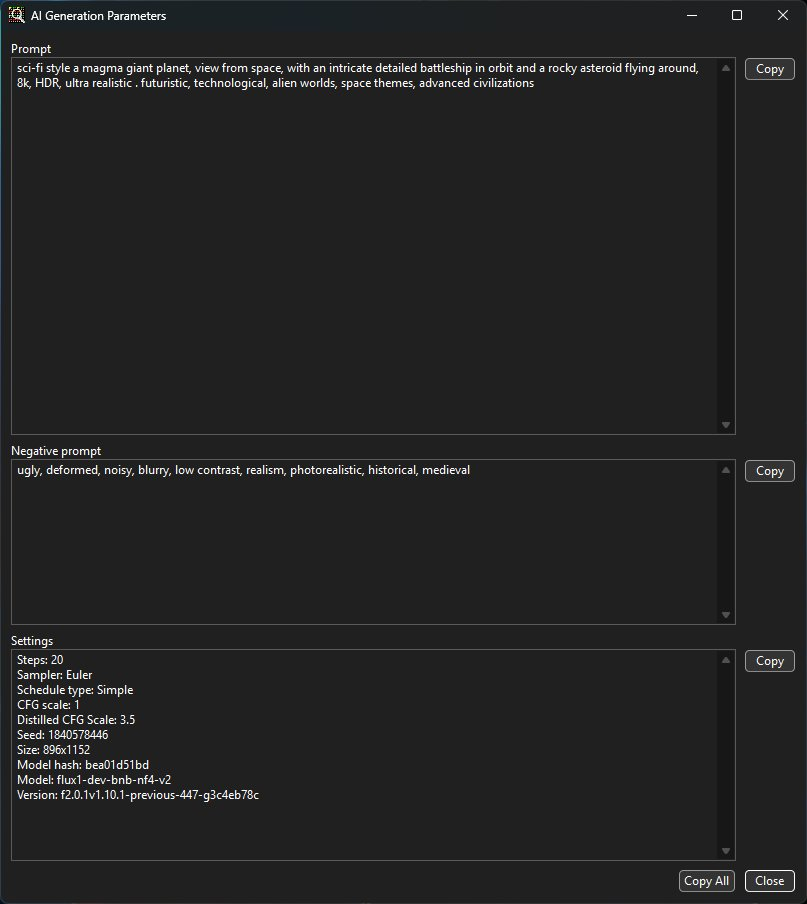
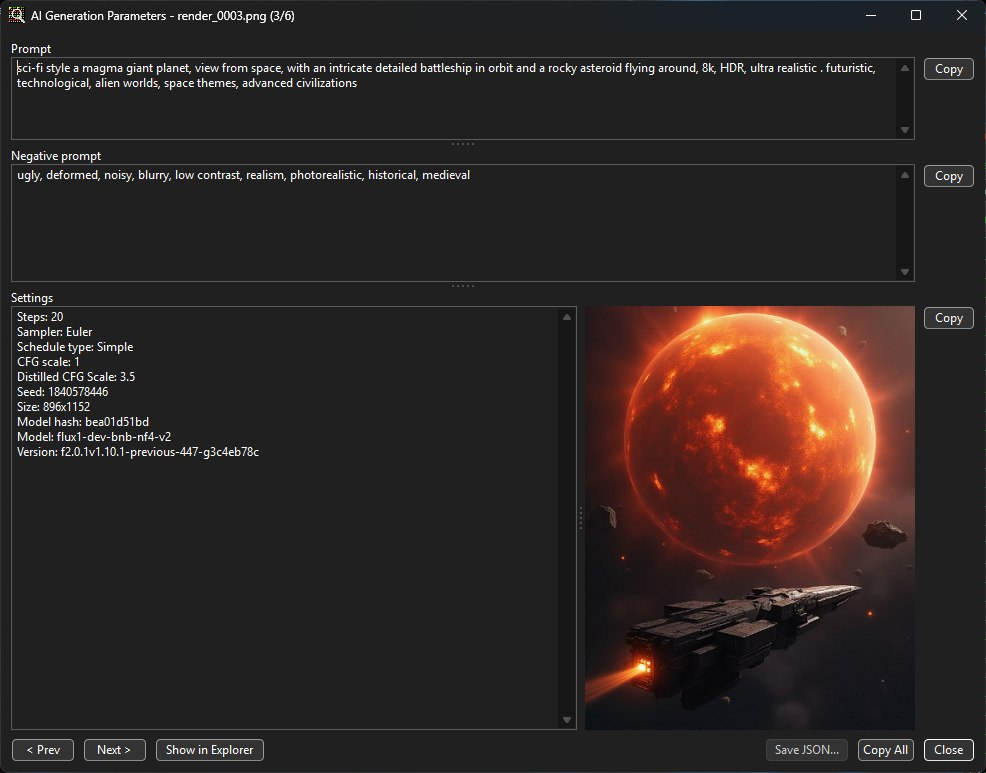
docs: New screenshots and an updated readme
Screenshots of the main window, the AI viewer, the folder overview, the
full-screen view, the text chunk editor and the image viewer, made with the
images in samples/ in a demo folder. The readme describes video playback,
the folder overview's sorting and live updates, and is plain ASCII now.

⚡

diff --git a/readme.md b/readme.md
@@ -8,53 +8,55 @@ This is a fork of [jsummers/tweakpng](https://github.com/jsummers/tweakpng)
 ([project homepage](https://entropymine.com/jason/tweakpng/)) by Jason Summers, with two
 goals:
 
-**Modern Windows 10/11 UI** — a dark-mode title bar, menu bar, chunk list, dialogs,
+**Modern Windows 10/11 UI** - a dark-mode title bar, menu bar, chunk list, dialogs,
 message boxes, and color picker, plus PerMonitorV2 DPI awareness, rounded corners, and a
-Mica backdrop.
+Mica backdrop. Options > Theme switches between System default, Light and Dark.
 
 **Quality-of-life features for AI-generated images** (Automatic1111, ComfyUI, NovelAI,
 Civitai):
 
-- **Auto-open parameters** — opening an image that has AI generation parameters pops
-  up a viewer automatically (toggle in Options → Preferences). Works for PNG
+- **Auto-open parameters** - opening an image that has AI generation parameters pops
+  up a viewer automatically (toggle in Options > Preferences). Works for PNG
   (`parameters`/`prompt` tEXt chunks), JPEG/WebP (EXIF UserComment) and MP4/MOV videos
   (ComfyUI SaveVideo and VideoHelperSuite metadata).
-- **AI Generation Parameters viewer** (Edit → View AI Parameters) — splits the metadata
-  into Prompt, Negative prompt, and Settings, each with a Copy button (plus Copy All).
+- **AI Generation Parameters viewer** (Edit > View AI Parameters) - splits the metadata
+  into Prompt, Negative prompt and Settings, each with a Copy button (plus Copy All),
+  next to a thumbnail. The borders between the boxes can be dragged. Settings include
+  LoRAs, and for videos the real size, frame count and duration. **Show in Explorer**
+  selects the file in Explorer, and **Save JSON** saves the ComfyUI graph so it can be
+  loaded back into ComfyUI.
 - **ComfyUI video workflows** - for MP4/MOV the settings also show the generation mode
   (reference/image/first-last frame/text to video) and the reference or first/last frame
   images that were used.
-- **Browse a folder** - Prev/Next (or the arrow keys) in the viewer step through the
-  images and videos in the same folder, and so does a left or right click on the thumbnail.
-  Double-click the thumbnail for a full-screen view you can browse with the arrow keys or
-  clicks, Esc to go back. Videos play right in the viewer and full screen (Play or Space,
-  speed with - and + in steps of 25%). The borders between the prompt,
-  negative prompt, settings and thumbnail can be dragged. **Show in Explorer** selects the
-  file in Explorer, and **Save JSON** saves the ComfyUI graph so it can be loaded back into
-  ComfyUI. Settings include LoRAs, and for videos the real size, frame count and duration.
+- **Browse a folder** - Prev/Next, the arrow keys, or a left/right click on the thumbnail
+  step through the images and videos in the same folder. Double-click the thumbnail for a
+  full-screen view you browse the same way, Esc to go back.
+- **Video playback** - videos play right in the viewer and full screen (Play or Space,
+  looped). - and + change the speed in steps of 25%, and the sound follows like a tape:
+  faster is higher, slower is lower.
+- **Folder Overview** (Tools menu, or Ctrl+F in the viewer) - all images and videos of a
+  folder in one list with date, seed, model, mode, duration and prompt, a search box,
+  sortable columns, a right-click menu (open, show in Explorer, copy path or prompt) and
+  Export CSV. Scans in the background and keeps an index, so a folder with 22,000 files
+  opens in well under a second the second time. The folder is watched: a render that
+  just finished shows up by itself. Options > Folder Indexes shows the indexes and deletes
+  the ones you no longer need.
 - **Read AI parameters from File** (Tools menu) - one-shot file picker that opens the
   parsed viewer without loading the file as a document.
-- **Folder Overview** (Tools menu, or Ctrl+F in the viewer) - all images and videos of a
-  folder in one list with seed, model, mode, duration and prompt, a search box, and
-  Export CSV. Scans in the background with a progress bar and keeps an index, so a folder
-  with 22,000 files opens in well under a second the second time. The menu lists the
-  folders that already have an index. Options > Folder
-  Indexes shows the indexes and deletes the ones you no longer need.
 - **Compare AI Parameters** (Tools menu) - shows what changed between two files: settings
   side by side and a word-level diff of the prompts.
 - **Strip AI Metadata** (Edit menu) - removes prompt/seed/workflow/EXIF metadata so a file
   can be shared privately. PNG in place; JPEG, WebP and MP4/MOV as a cleaned copy.
 - **Explorer menu** (Options > Preferences) - adds "View AI parameters" to the right-click
   menu of images and videos, which opens just the viewer.
-- **Theme** (Options > Theme) - System default, Light or Dark, remembered between runs.
-- **Generator badge** — the status bar identifies A1111, ComfyUI, or NovelAI images
+- **Generator badge** - the status bar identifies A1111, ComfyUI, or NovelAI images
   (for PNG and for JPEG/WebP/MP4/MOV files).
 
 Download
 --------
 
 Grab the latest prebuilt 64-bit Windows binary from the
-[**Releases**](https://github.com/JappeF/tweakpng/releases/latest) page — no installer,
+[**Releases**](https://github.com/JappeF/tweakpng/releases/latest) page - no installer,
 just run `tweakpng.exe`.
 
 Screenshots
@@ -64,14 +66,28 @@ The main chunk view with the modern dark UI:
 
 ![Main window](docs/main.jpg)
 
-The AI Generation Parameters viewer (prompt / negative prompt / settings, with copy
-buttons):
+The AI Generation Parameters viewer: prompt, negative prompt and settings with copy
+buttons, the thumbnail, and Prev/Next to browse the folder:
 
 ![AI parameters viewer](docs/aiprompt.jpg)
 
-Editing a chunk:
+The Folder Overview, with search, sortable columns and live updates:
+
+![Folder Overview](docs/folder.jpg)
+
+Full-screen view (double-click the thumbnail), browse with the arrow keys or clicks:
+
+![Full-screen view](docs/fullscreen.jpg)
+
+Editing a text chunk:
 
 ![Chunk editor](docs/imgedit.jpg)
+
+The image viewer (F7):
+
+![Image viewer](docs/viewer.jpg)
+
+The images in the screenshots are the files in `samples/`.
 
 Building
 --------
@@ -90,4 +106,3 @@ Documentation
 For usage instructions, see `tweakpng.txt`.
 
 Original project web site: [entropymine.com/jason/tweakpng](https://entropymine.com/jason/tweakpng/)
-
